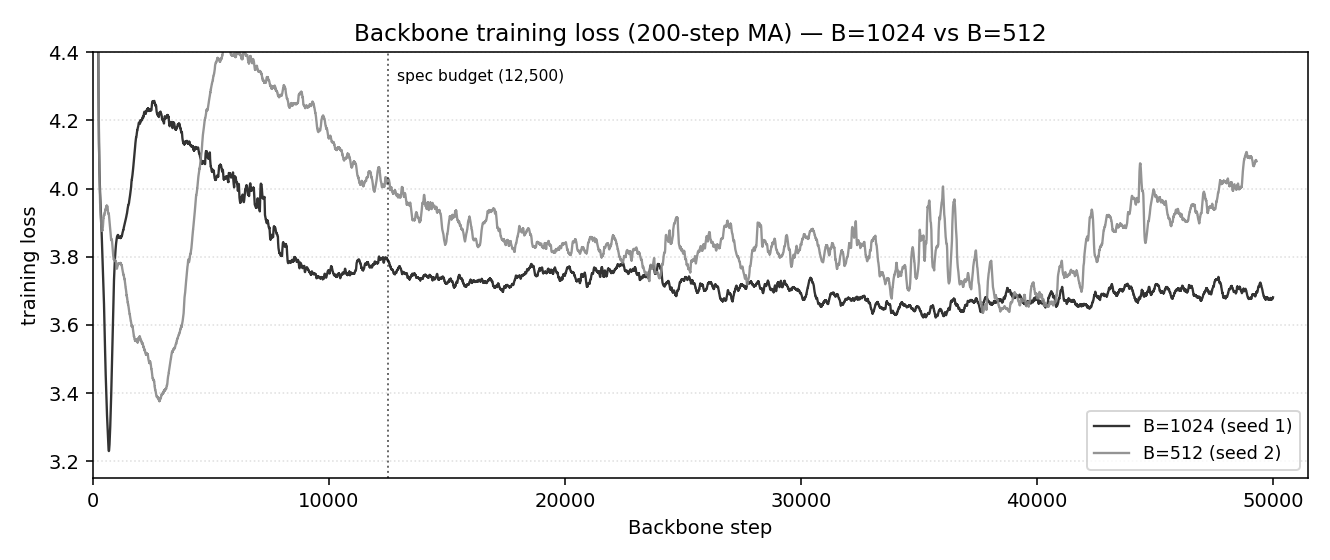
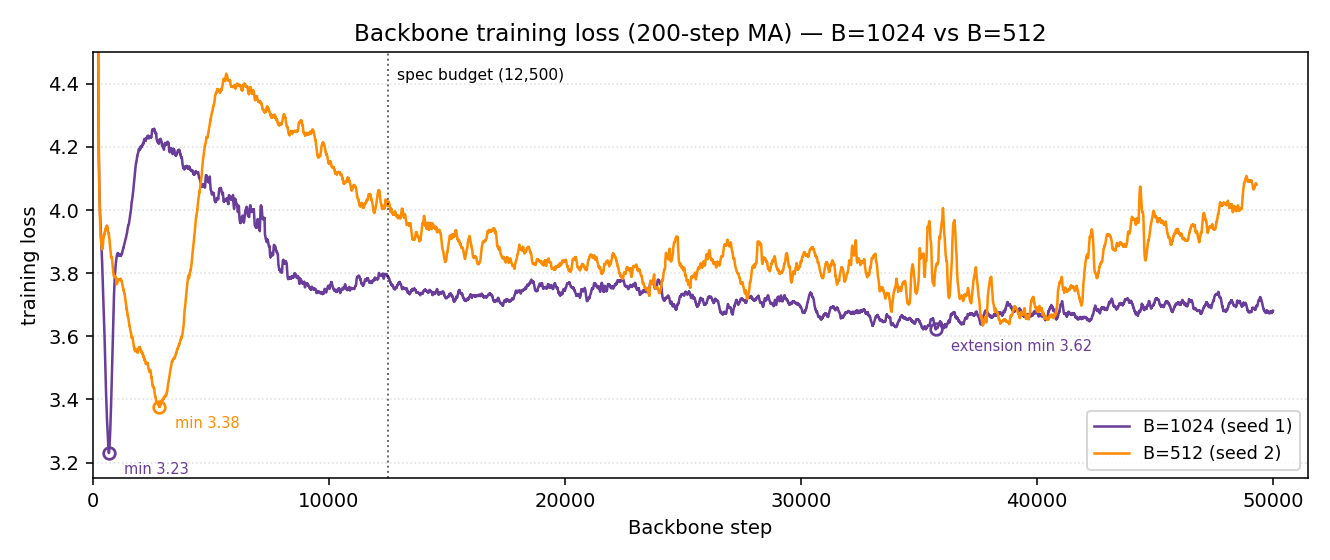
report(#369): colour the loss curves, mark the minima, unclip the rebound
* Batch-coded colours (violet B=1024, orange B=512) — deliberately
  disjoint from the GM plot's head-coded blue/red so the two figures
  cannot be cross-read.
* Open-circle markers + labels on each curve's global MA minimum and
  on the B=1024 extension minimum — the three anchors the caption
  cites.
* Y-ceiling raised to 4.5: the B=512 rebound peak (4.43 at ~5,650) was
  flat-topped at the old 4.4 — same clipping class as the y-floor bug
  round 6 caught. Only the step<~300 warmup transient runs off-scale.

Claude-Session: https://claude.ai/code/session_0161MgsdDqgZTei6G6HD6Nfq

diff --git a/reports/2026-07-03_b1024_traj_ckpts/plots/_make_plots.py b/reports/2026-07-03_b1024_traj_ckpts/plots/_make_plots.py
@@ -91,21 +91,44 @@ def _b1024_losses() -> pd.DataFrame:
 
 
 def backbone_loss() -> None:
+    # Batch-coded colours, deliberately distinct from the GM plot's
+    # head-coded blue/red so the two figures cannot be cross-read.
     fig, ax = plt.subplots(figsize=(9.5, 4.0))
-    for label, df, colour, alpha in [
-        ("B=1024 (seed 1)", _b1024_losses(), "#333333", 1.0),
-        ("B=512 (seed 2)", pd.read_csv(SEED2 / "steps_loss.csv"), "#888888", 0.9),
+    for label, df, colour in [
+        ("B=1024 (seed 1)", _b1024_losses(), "#6a3d9a"),
+        ("B=512 (seed 2)", pd.read_csv(SEED2 / "steps_loss.csv"), "#ff8c00"),
     ]:
         df = df.sort_values("step")
         df["ma"] = df["loss"].rolling(200, min_periods=1).mean()
         df = df[df["step"] >= 200]
-        ax.plot(df["step"], df["ma"], color=colour, linewidth=1.2, alpha=alpha, label=label)
+        ax.plot(df["step"], df["ma"], color=colour, linewidth=1.3, label=label)
+        # Mark the global MA minimum of each curve (the caption's anchor).
+        i = df["ma"].idxmin()
+        ax.plot(df.loc[i, "step"], df.loc[i, "ma"], "o", color=colour,
+                markersize=6, fillstyle="none", markeredgewidth=1.4)
+        ax.annotate(f"min {df.loc[i, 'ma']:.2f}",
+                    (df.loc[i, "step"], df.loc[i, "ma"]),
+                    textcoords="offset points", xytext=(8, -11),
+                    fontsize=7.5, color=colour)
+    # The B=1024 extension minimum, second anchor of the caption.
+    b1024 = _b1024_losses().sort_values("step")
+    b1024["ma"] = b1024["loss"].rolling(200, min_periods=1).mean()
+    ext = b1024[b1024["step"] >= PARENT_BUDGET_STEP]
+    j = ext["ma"].idxmin()
+    ax.plot(ext.loc[j, "step"], ext.loc[j, "ma"], "o", color="#6a3d9a",
+            markersize=6, fillstyle="none", markeredgewidth=1.4)
+    ax.annotate(f"extension min {ext.loc[j, 'ma']:.2f}",
+                (ext.loc[j, "step"], ext.loc[j, "ma"]),
+                textcoords="offset points", xytext=(8, -11),
+                fontsize=7.5, color="#6a3d9a")
     ax.axvline(PARENT_BUDGET_STEP, color="k", linestyle=":", linewidth=1.0, alpha=0.6)
-    ax.text(PARENT_BUDGET_STEP + 400, 4.35, "spec budget (12,500)", fontsize=8, va="top")
+    ax.text(PARENT_BUDGET_STEP + 400, 4.45, "spec budget (12,500)", fontsize=8, va="top")
     ax.set_xlim(0, XMAX)
-    # Lower bound must include the early dip (global MA min ~3.23 near
-    # step 680) — clipping it once misled the report's caption.
-    ax.set_ylim(3.15, 4.4)
+    # Bounds must include every post-warmup feature: the early dips
+    # (global MA minima 3.23 / 3.38) and the B=512 rebound peak (4.43 at
+    # step ~5,650). Only the step<~300 warmup transient may run off-scale
+    # — clipping a real extremum once misled the report's caption.
+    ax.set_ylim(3.15, 4.5)
     ax.set_xlabel("Backbone step")
     ax.set_ylabel("training loss")
     ax.set_title("Backbone training loss (200-step MA) — B=1024 vs B=512")
